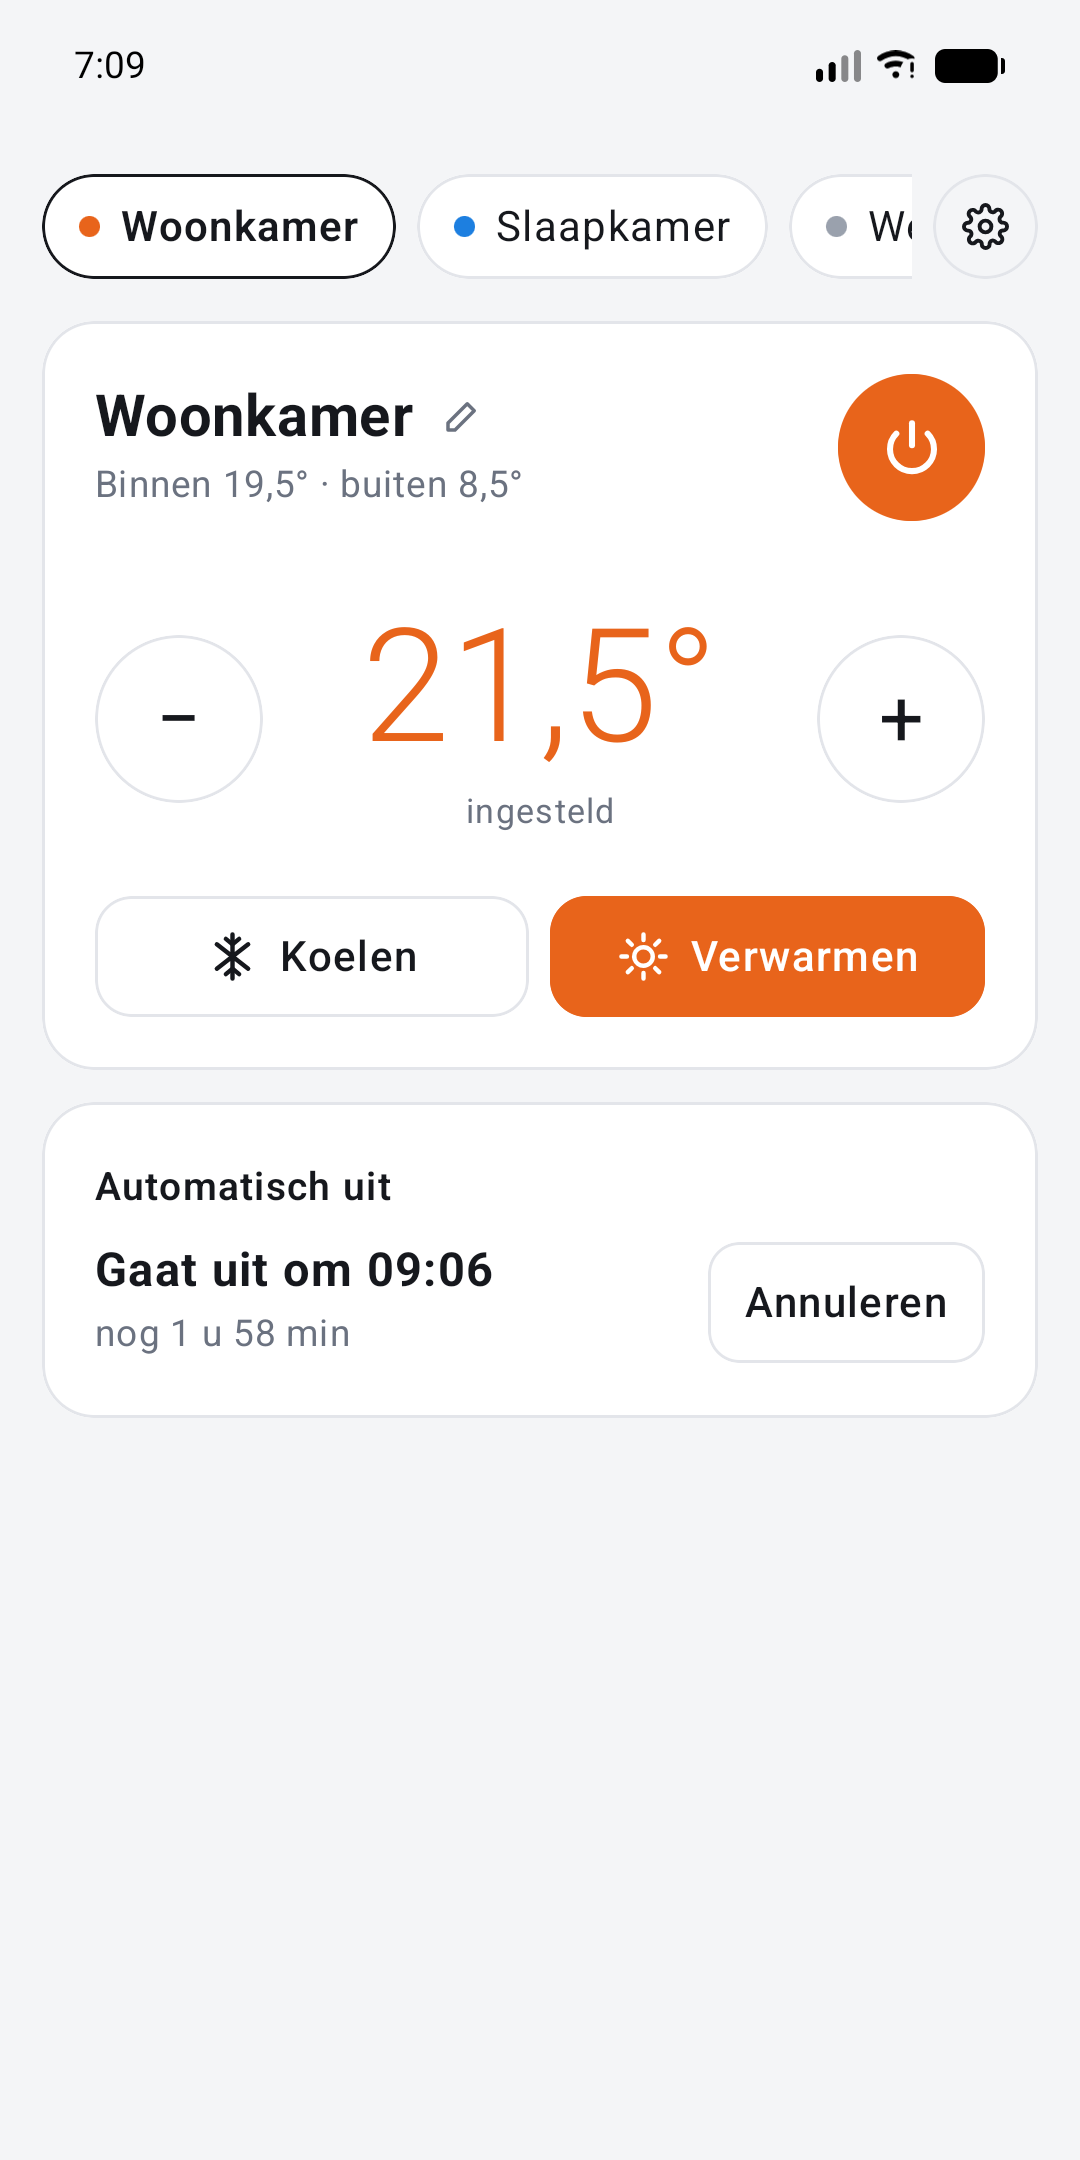
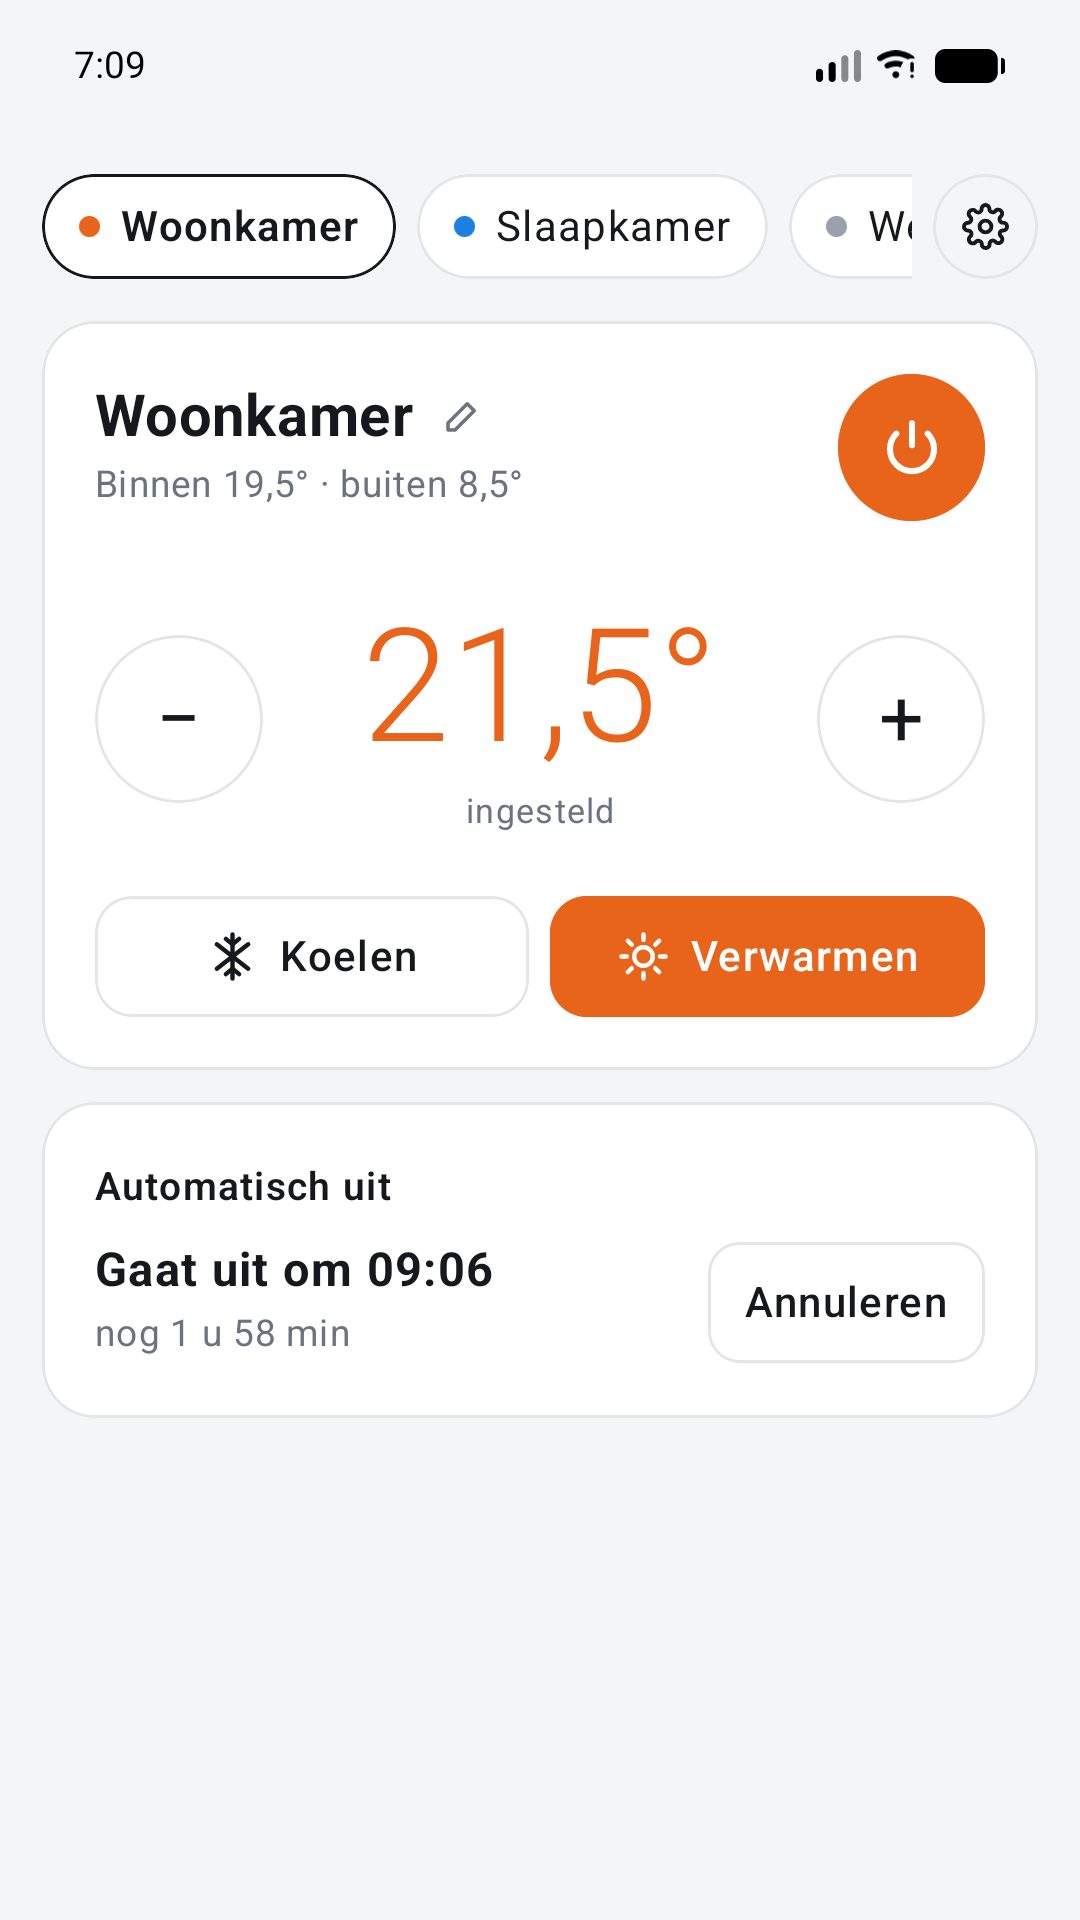
Store screenshots in 9:16 (1080x1920), as Play requires
Claude-Session: https://claude.ai/code/session_01AijStRETYrGEzKQvKW5Zc3

diff --git a/docs/play-store/README.md b/docs/play-store/README.md
@@ -6,7 +6,7 @@ developer's own account and identity; everything else is in this folder.
 | File | Use |
 |---|---|
 | `listing-en.md`, `listing-nl.md` | Store listing texts (name, short and full description) |
-| `screenshots/en/`, `screenshots/nl/` | Phone screenshots, 1080×2160 |
+| `screenshots/en/`, `screenshots/nl/` | Phone screenshots, 1080×1920 (9:16) |
 | `feature-graphic.png` | Feature graphic, 1024×500 |
 | `icon-512.png` | App icon, 512×512 |
 | `../privacy.md` | Privacy policy, published at https://erdtsieck.github.io/airlan/privacy |
@@ -84,4 +84,4 @@ Play support can reset it, but that takes days.
 
 Run the stand-in units (`tools/fake-unit.mjs` with `--host`, `--power`, `--mode`,
 `--temp`, `--indoor`, `--outdoor`), add them in the emulator by address, and capture at
-1080×2400, cropped to 1080×2160: Play allows at most a 2:1 aspect ratio.
+1080×2400, cropped to 1080×1920: Play requires phone screenshots in 16:9 or 9:16.
